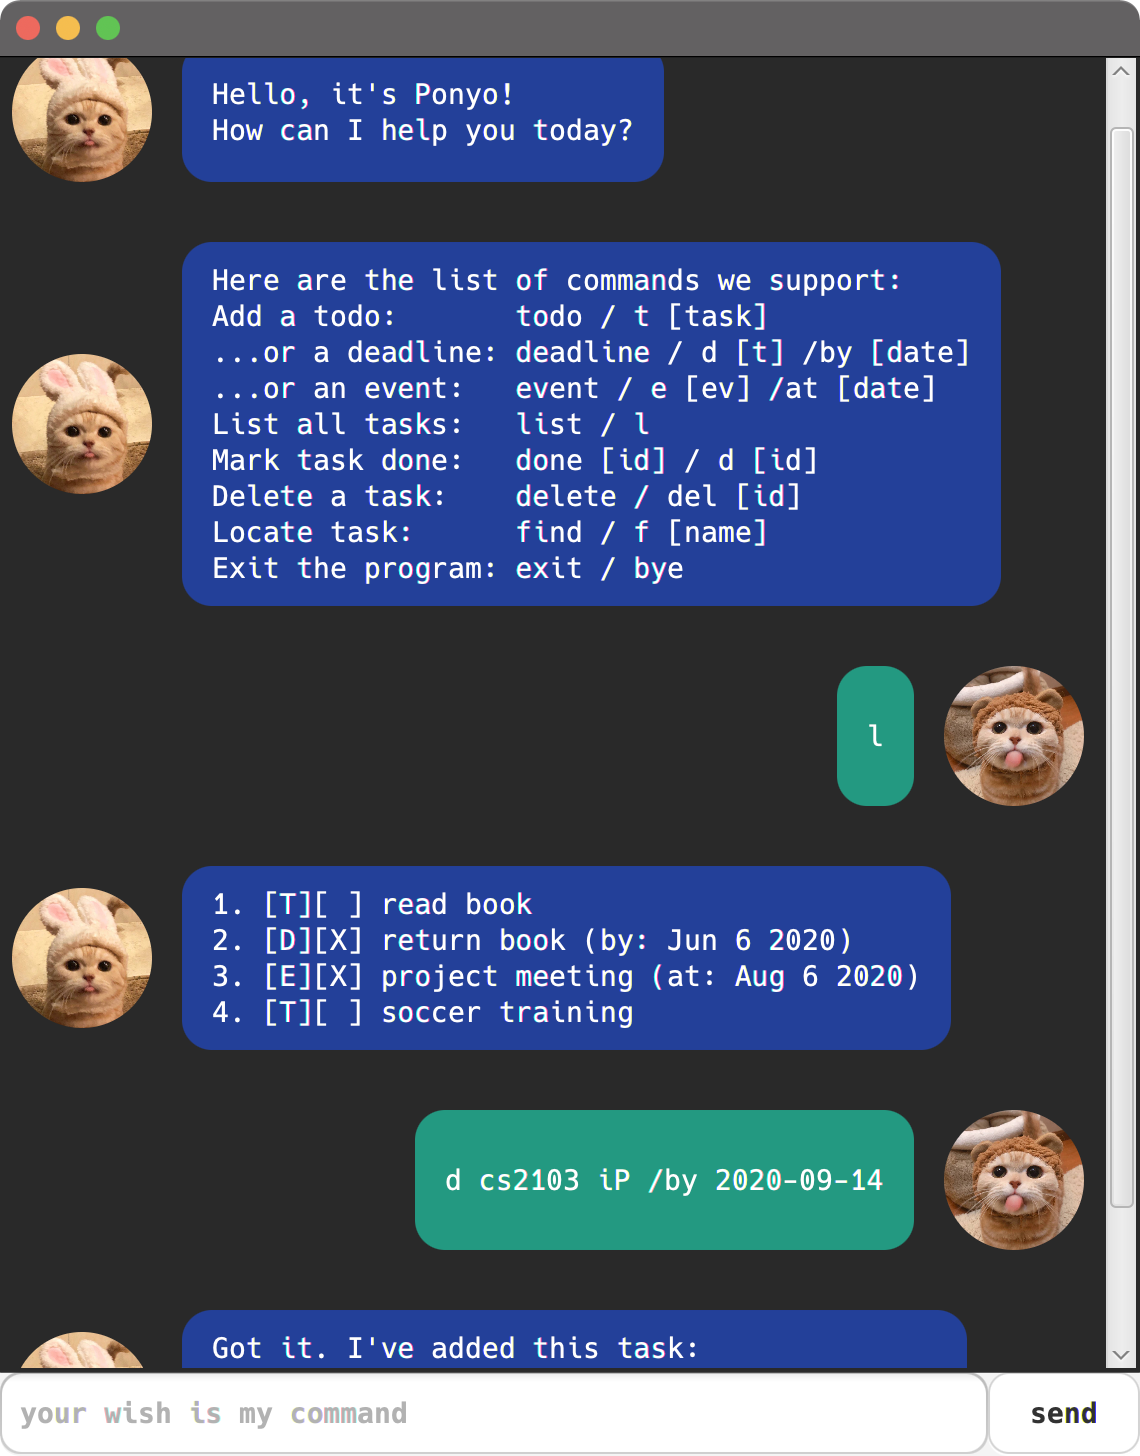
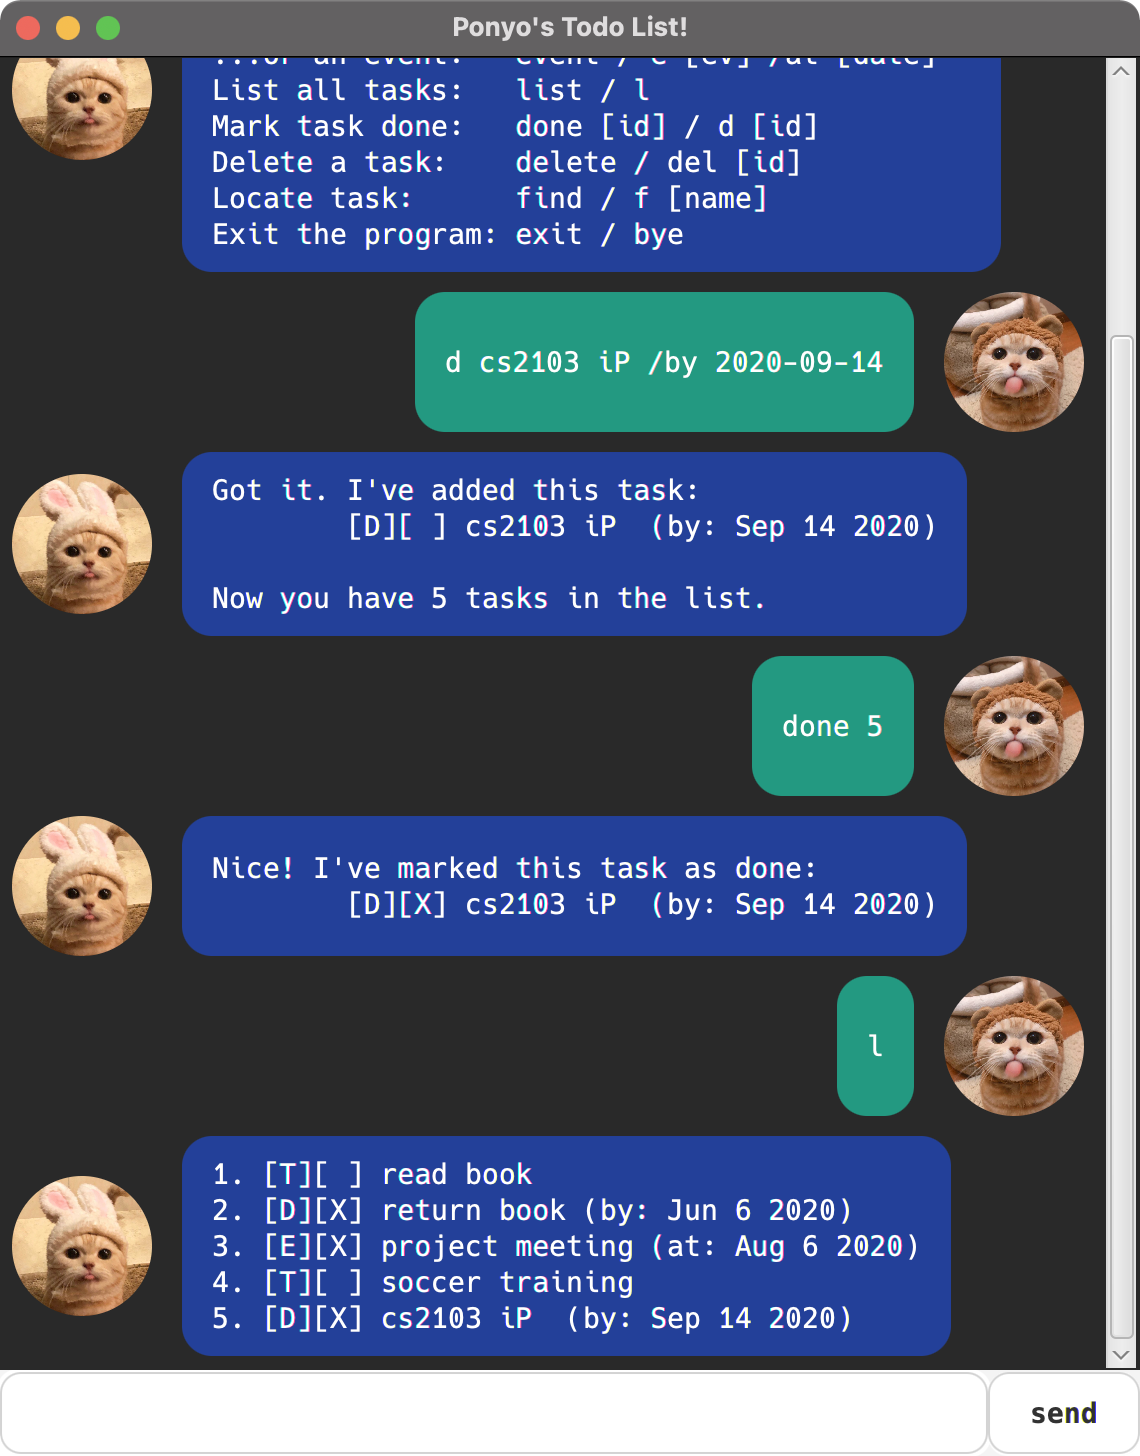
Update user guide

diff --git a/src/main/java/ponyo/common/Messages.java b/src/main/java/ponyo/common/Messages.java
@@ -7,7 +7,7 @@ public class Messages {
             + "...or a deadline: deadline / d [t] /by [date]\n"
             + "...or an event:\t  event / e [ev] /at [date]\n"
             + "List all tasks:\t  list / l\n"
-            + "Mark task done:\t  done [id] / d [id]\n"
+            + "Mark task done:\t  done [id]\n"
             + "Delete a task:\t  delete / del [id]\n"
             + "Locate task:\t  find / f [name]\n"
             + "Exit the program: exit / bye";

diff --git a/src/main/java/ponyo/Main.java b/src/main/java/ponyo/Main.java
@@ -23,6 +23,7 @@ public class Main extends Application {
             AnchorPane ap = fxmlLoader.load();
             Scene scene = new Scene(ap);
             stage.setScene(scene);
+            stage.setTitle("Ponyo's Todo List!");
             fxmlLoader.<MainWindow>getController().setPonyo(ponyo);
             stage.show();
         } catch (IOException e) {

diff --git a/src/main/java/ponyo/parser/Parser.java b/src/main/java/ponyo/parser/Parser.java
@@ -33,6 +33,7 @@ public class Parser {
             case "l":
                 return new ListCommand();
             case "bye":
+            case "exit":
                 return new ExitCommand();
             case "done":
                 assert commandArg != null;

diff --git a/docs/README.md b/docs/README.md
@@ -1,29 +1,88 @@
 # User Guide
 
+Ponyo is a desktop app for managing your todos, optimised for use via a Command Line Interface (CLI) while still having the benefits of a Graphical User Interface (GUI).
+
+**💡 Notes about the command format:**
+* Words in `UPPER_CASE` are the parameters to be supplied by the user.
+e.g. in `todo TASK`, `TASK` is a parameter which can be used as `todo english homework`.
+
 ## Features 
 
-### Feature-ABC
+### Adding a todo: `todo`/`t`
 
-Description of the feature.
+Adds a todo to the task list.
 
-### Feature-XYZ
+*Format:* `todo TASK` / `t TASK`
+*Examples:*
+* `todo math homework`
+* `t math homework`
 
-Description of the feature.
+### Adding a deadline: `deadline`/`d`
 
-## Usage
+Adds a deadline to the task list.
 
-### `Keyword` - Describe action
+*Format:* `deadline TASK /by DATE` / `d TASK /by DATE`
+*Examples:*
+* `deadline apply for scholarship /by 2020-09-20`
+* `d apply for scholarship /by 2020-09-20`
 
-Describe the action and its outcome.
+### Adding an event: `event`/`e`
 
-Example of usage: 
+Adds an event to the task list.
 
-`keyword (optional arguments)`
+*Format:* `event EVENT /at DATE` / `e EVENT /at DATE`
+*Examples:*
+* `event club meeting /at 2020-10-01`
+* `e club meeting /at 2020-10-01`
 
-Expected outcome:
+### Listing all tasks: `list`/`l`
 
-Description of the outcome.
+Lists all completed and uncompleted tasks.
 
-```
-expected output
-```
+*Format:* `list`/`l`
+
+### Marking a task as done: `done`
+
+Marks a task as done.
+
+*Format:* `done INDEX`
+* Marks the task as done at the specified `INDEX`
+* The index refers to the index number shown in the displayed task list.
+* The index **must be a positive integer** 1, 2, 3, ...
+
+*Examples:*
+* `list` followed by `done 1` marks the 1st task as done in the address book.
+
+### Delete a task `delete`/`del`
+
+Deletes the specified task from the task list.
+
+*Format:* `delete INDEX` / `del INDEX`
+* Deletes the task at the specified `INDEX`
+* The index refers to the index number shown in the displayed task list.
+* The index **must be a positive integer** 1, 2, 3, ...
+
+*Examples:*
+* `list` followed by `delete 1` deletes the 1st task in the address book.
+* `l` followed by `del 1` deletes the 1st task in the address book.
+
+### Locating a task by name: `find`/`f`
+
+Finds persons whose names contain any of the given keywords.
+
+*Format:* `find KEYWORD` / `f KEYWORD`
+* Half-words, full words, single letters will all be matched.
+
+*Examples:*
+* `find soccer` returns `soccer training`
+
+### Exiting the program: `exit`/`bye`
+
+Exits the program.
+
+*Format:* `exit` / `bye`
+
+
+### Saving the data
+
+Ponyo's tasks data are saved in the hard disk automatically after any command that changes the data. There is no need to save manually.
